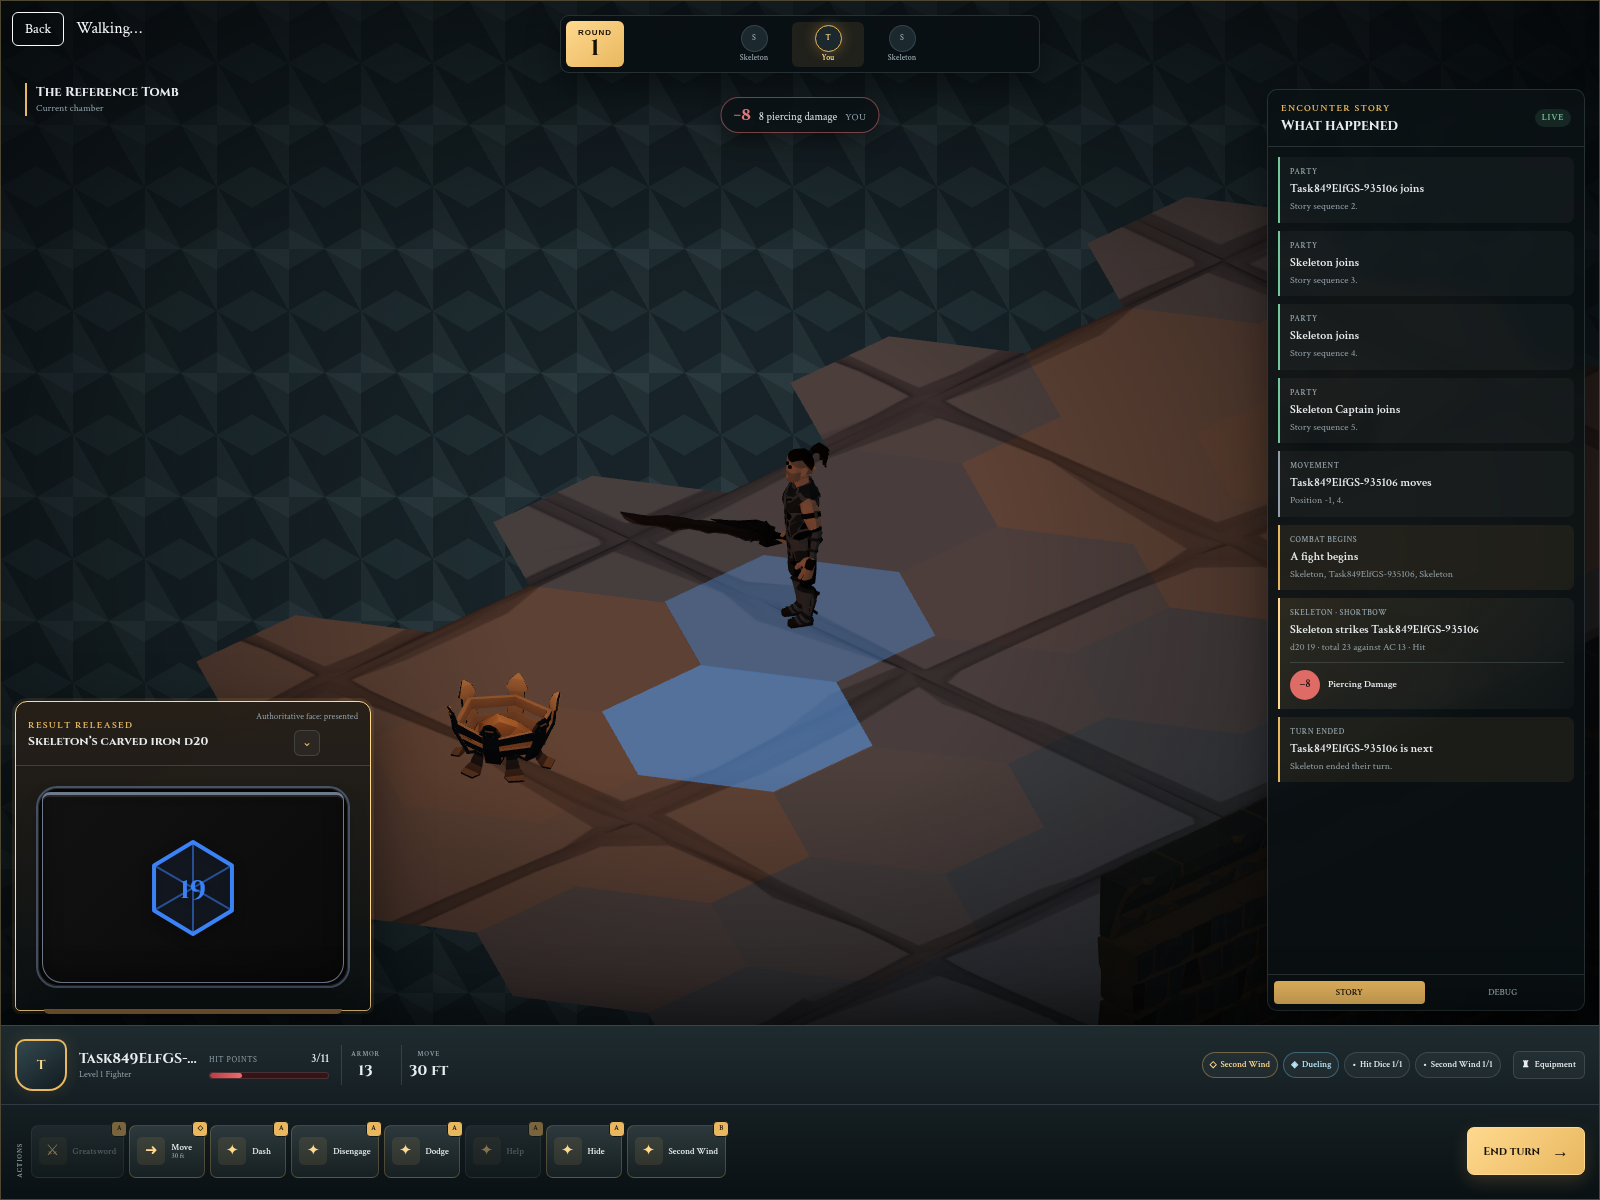
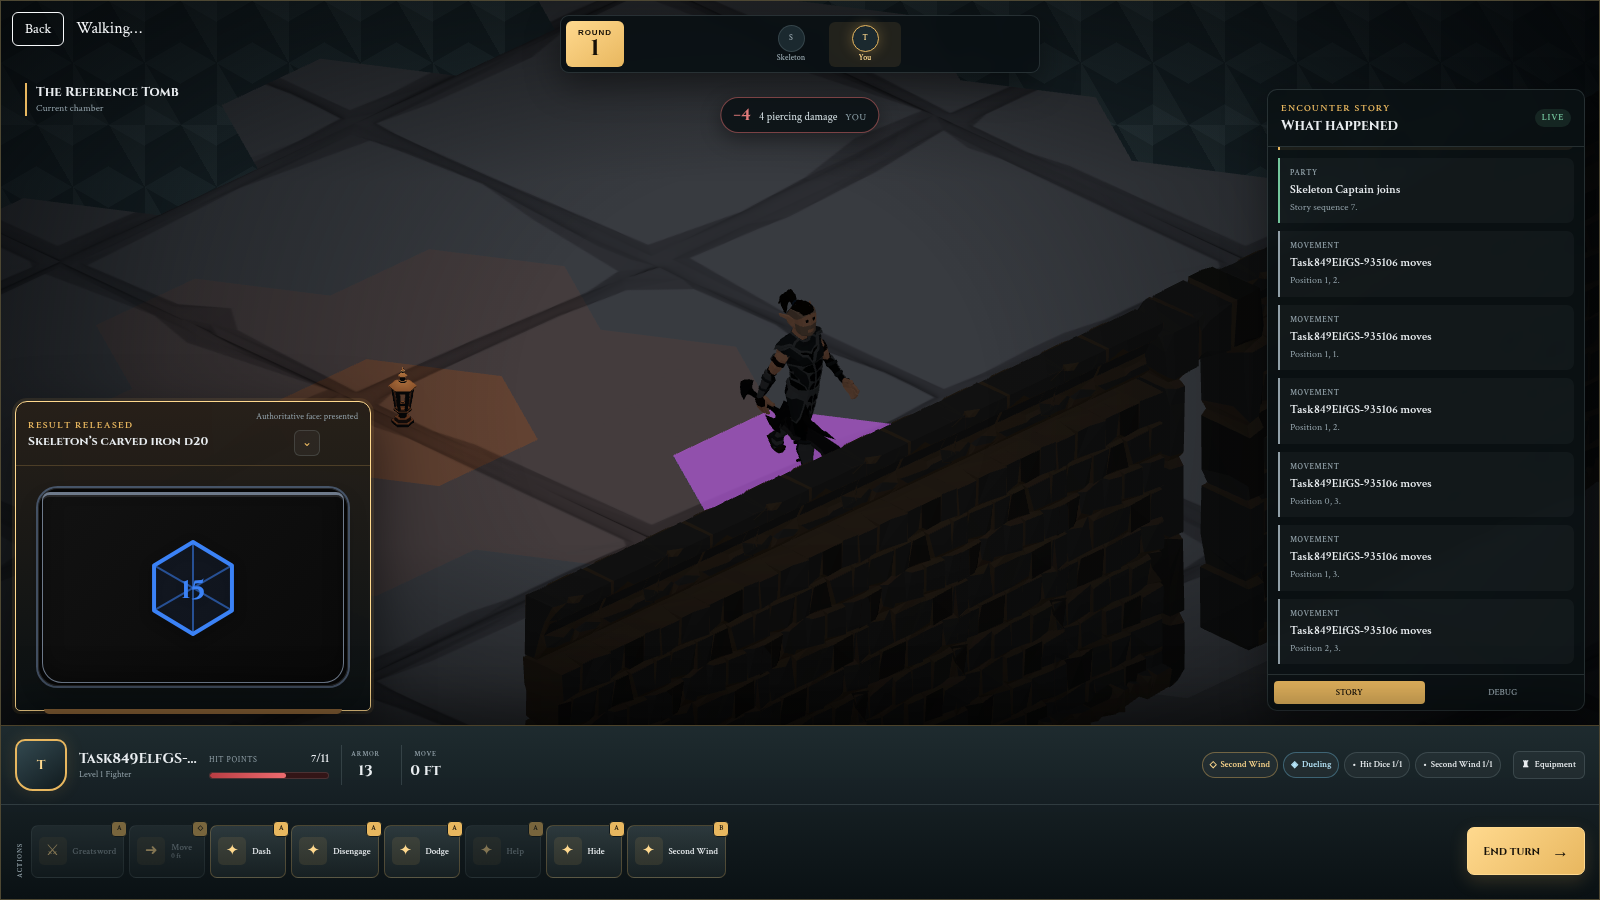
docs(evidence): rebind opaque elf fighter proof (#849)

diff --git a/scripts/modularElfFighterPublication.test.ts b/scripts/modularElfFighterPublication.test.ts
@@ -19,7 +19,17 @@ const receipt = JSON.parse(
   )
 ) as {
   browser?: { scope?: string };
+  elfFighterSha256?: string;
+  hairMesh?: string;
+  materialAlphaMode?: string;
+  providerCommit?: string;
+  providerManifestSha256?: string;
 };
+const EXPECTED_PROVIDER_COMMIT = '098dc9bb977199ea212a00d2742d5055a8f1a7dd';
+const EXPECTED_PROVIDER_MANIFEST_SHA256 =
[1 lines of base64/hex data omitted]
+const EXPECTED_ELF_FIGHTER_SHA256 =
[1 lines of base64/hex data omitted]
 const readme = readFileSync(
   new URL(
     '../docs/evidence/849-modular-elf-fighter/README.md',
@@ -38,9 +48,23 @@ describe('task 10 publication guardrails', () => {
     );
   });
 
+  it('pins the corrected provider receipt facts', () => {
+    expect(receipt.providerCommit).toBe(EXPECTED_PROVIDER_COMMIT);
+    expect(receipt.providerManifestSha256).toBe(
+      EXPECTED_PROVIDER_MANIFEST_SHA256
+    );
+    expect(receipt.elfFighterSha256).toBe(EXPECTED_ELF_FIGHTER_SHA256);
+    expect(receipt.materialAlphaMode).toBe('OPAQUE');
+    expect(receipt.hairMesh).toBe('Chr_Hair_01');
+  });
+
   it('scopes browser zero counts to the captured proof window', () => {
     expect(receipt.browser?.scope).toBe('captured-proof-window');
     expect(readme).toContain('captured proof window');
     expect(readme).toContain('outside the captured proof window');
+    expect(readme).toContain('provider PR #84');
+    expect(readme).toContain('OPAQUE');
+    expect(readme).toContain('Chr_Hair_01');
+    expect(readme).toContain('Chr_Hair_38 absent');
   });
 });

diff --git a/docs/evidence/849-modular-elf-fighter/README.md b/docs/evidence/849-modular-elf-fighter/README.md
@@ -1,101 +1,71 @@
 # Modular Elf Fighter route evidence (#849)
 
-This evidence folder proves the public Elf Fighter route against the **merged** provider authority from `rpg-game-assets` PR #81.
+This evidence folder rebinds the PR proof to the merged opaque-hair provider correction from `rpg-game-assets` provider PR #84.
 
 ## Merged provider authority
 
 Verified through GitHub and provider Git:
 
-- provider PR: [#81](https://github.com/KirkDiggler/rpg-game-assets/pull/81) `asset: generate fixed-look modular Elf Fighter`
+- provider PR #84: [#84](https://github.com/KirkDiggler/rpg-game-assets/pull/84) `fix: keep modular Elf Fighter hair opaque (#83)`
 - PR state: `MERGED`
-- merge commit: `ddf77063fcecb0a8598bc2e9333ba37bbcae1acb`
+- merge commit: `098dc9bb977199ea212a00d2742d5055a8f1a7dd`
 - merge commit is an ancestor of provider `origin/main`
 
-A detached temporary provider worktree was created at that merge commit and used for `npm run assets:sync`.
+A detached temporary provider worktree was created at that exact merge commit, used for `npm run assets:sync`, then removed.
 
-## Synced merged bytes
+## Synced corrected bytes
 
-The synced runtime files hash exactly to the approved values:
+The synced runtime files hash exactly to the approved corrected values:
 
 - `public/models/synty/characters/race-class/manifest.json`
[2 lines of base64/hex data omitted]
 - `public/models/synty/characters/race-class/elf-fighter.glb`
[2 lines of base64/hex data omitted]
 
-Merged manifest facts:
+Corrected manifest / model facts:
 
 - combination `elf:fighter`
 - model `/models/synty/characters/race-class/elf-fighter.glb`
 - animations `Idle_Relaxed`, `Walk_Forward`
-- rig family `modular-fantasy-hero-v1`
 - socket profile `modular-fantasy-hero-main-hand-v1`
-- merged manifest socket values deep-equal the web repo's `MODULAR_FANTASY_HERO_MAIN_HAND_SOCKET` constant
+- manifest socket values deep-equal the web repo's `MODULAR_FANTASY_HERO_MAIN_HAND_SOCKET`
+- glTF material default is `OPAQUE` (`alphaMode` absent)
+- embedded atlas alpha extrema are `[255,255]`
+- `Chr_Hair_01` present
+- `Chr_Hair_38 absent`
 
-These merged bytes are hash-identical to the pre-merge provider branch bytes used for the recorded live route capture, so the browser proof below remains authoritative without a second live run.
+## Fresh real-browser recapture
 
-## Recorded live route capture reused for merged bytes
-
-All browser `goto()` calls used `waitUntil: 'domcontentloaded'`, never `networkidle`.
-
-Real route used:
-
-1. Home
-2. `Create`
-3. real wizard: Elf -> Fighter -> Dueling -> martial-weapon choice `Greatsword`
-4. `Play`
-5. `Create lobby`
-6. choose `The Reference Tomb`
-7. `Ready up`
-8. `Start`
-
-Live player/character used for the recorded capture:
+A fresh browser context loaded the existing reviewed player/session where available:
 
 - player id: `modular-elf-fighter-849-live-935106`
-- character: `Task849ElfGS-935106`
-
-### Real idle / exact public model
-
-From the recorded real session route before movement:
-
-- `GetCharacterData` returned `200`
+- route: `http://127.0.0.1:3011/?playerId=modular-elf-fighter-849-live-935106`
 - exact public model request `GET /models/synty/characters/race-class/elf-fighter.glb` returned `200`
-- recorded browser counts for the captured proof window only: exact model request count `1`, page errors `0`, request failures `0`, console errors `0`
[1 lines of base64/hex data omitted]
+- authoritative Greatsword model request returned `200`
+- real `SessionService/Move` returned `200`
+- `Walking…` was visible during the walk capture
 
-Screenshot:
+Final screenshots for the PR evidence:
 
-- `idle-real-route.png`
+- `profile-real-route.png` — side/profile ponytail proof with opaque hair
+- `front-real-route.png` — front/three-quarter live production camera
+- `rotation-pop-boundary-real-route.png` — slight camera rotation at the previous pop boundary
+- `greatsword-equipped-real-route.png` — authoritative `MAIN HAND Greatsword`
+- `walk-real-route.png` — real walk with `Walking…`
 
-### Authoritative main-hand attachment
+## Browser proof window and known outside noise
 
-The real character flow did **not** auto-equip the selected martial weapon; it arrived as carried inventory. The authoritative attach proof therefore used the real in-session Equipment UI:
+Browser zero counts are scoped to the captured proof window only.
 
-- `Equipment` -> `Greatsword — equip to Main hand`
-- `EquipItem` returned `200`
-- `GET /models/synty/weapons/greatsword.glb` returned `200`
-- the Equipment panel then showed `MAIN HAND Greatsword`, and the rendered live model visibly carried the greatsword
+Within the captured proof window:
 
-Screenshot:
+- model request count `1`
+- console errors `0`
+- page errors `0`
+- unexpected request failures `0`
 
-- `main-hand-equipped-real-route.png`
+These appeared outside the captured proof window and were kept separate from the verdict counts:
 
-### Real walk
-
-After equipping, a real floor click dispatched `SessionService/Move` and the route entered `Walking…` state.
-
-- `Move` returned `200`
-- mid-walk body text included `Walking…`
-- post-move combat/log state recorded `MOVEMENT ... Position -1, 4.`
-
-Screenshots:
-
-- `walk-real-route.png`
-- `walk-after-real-route.png`
-
-## Browser noise kept separate from the captured proof window
-
-Two known non-product blockers were observed outside the captured proof window:
-
-- home/lobby authoring probe: `AuthoringService.GetDungeon` unimplemented on lab2
-- expected route-transition abort noise from old stream/request teardown
-
-These appeared only during bootstrap / session transition. Within the captured proof window (idle, equip, and walk capture phases), there were no new console errors, no page errors, and no request failures.
+- route-transition aborts from the old stream / `GetCharacterData` teardown
+- `AuthoringService.GetDungeon` unimplemented on lab2 during the home/lobby probe
